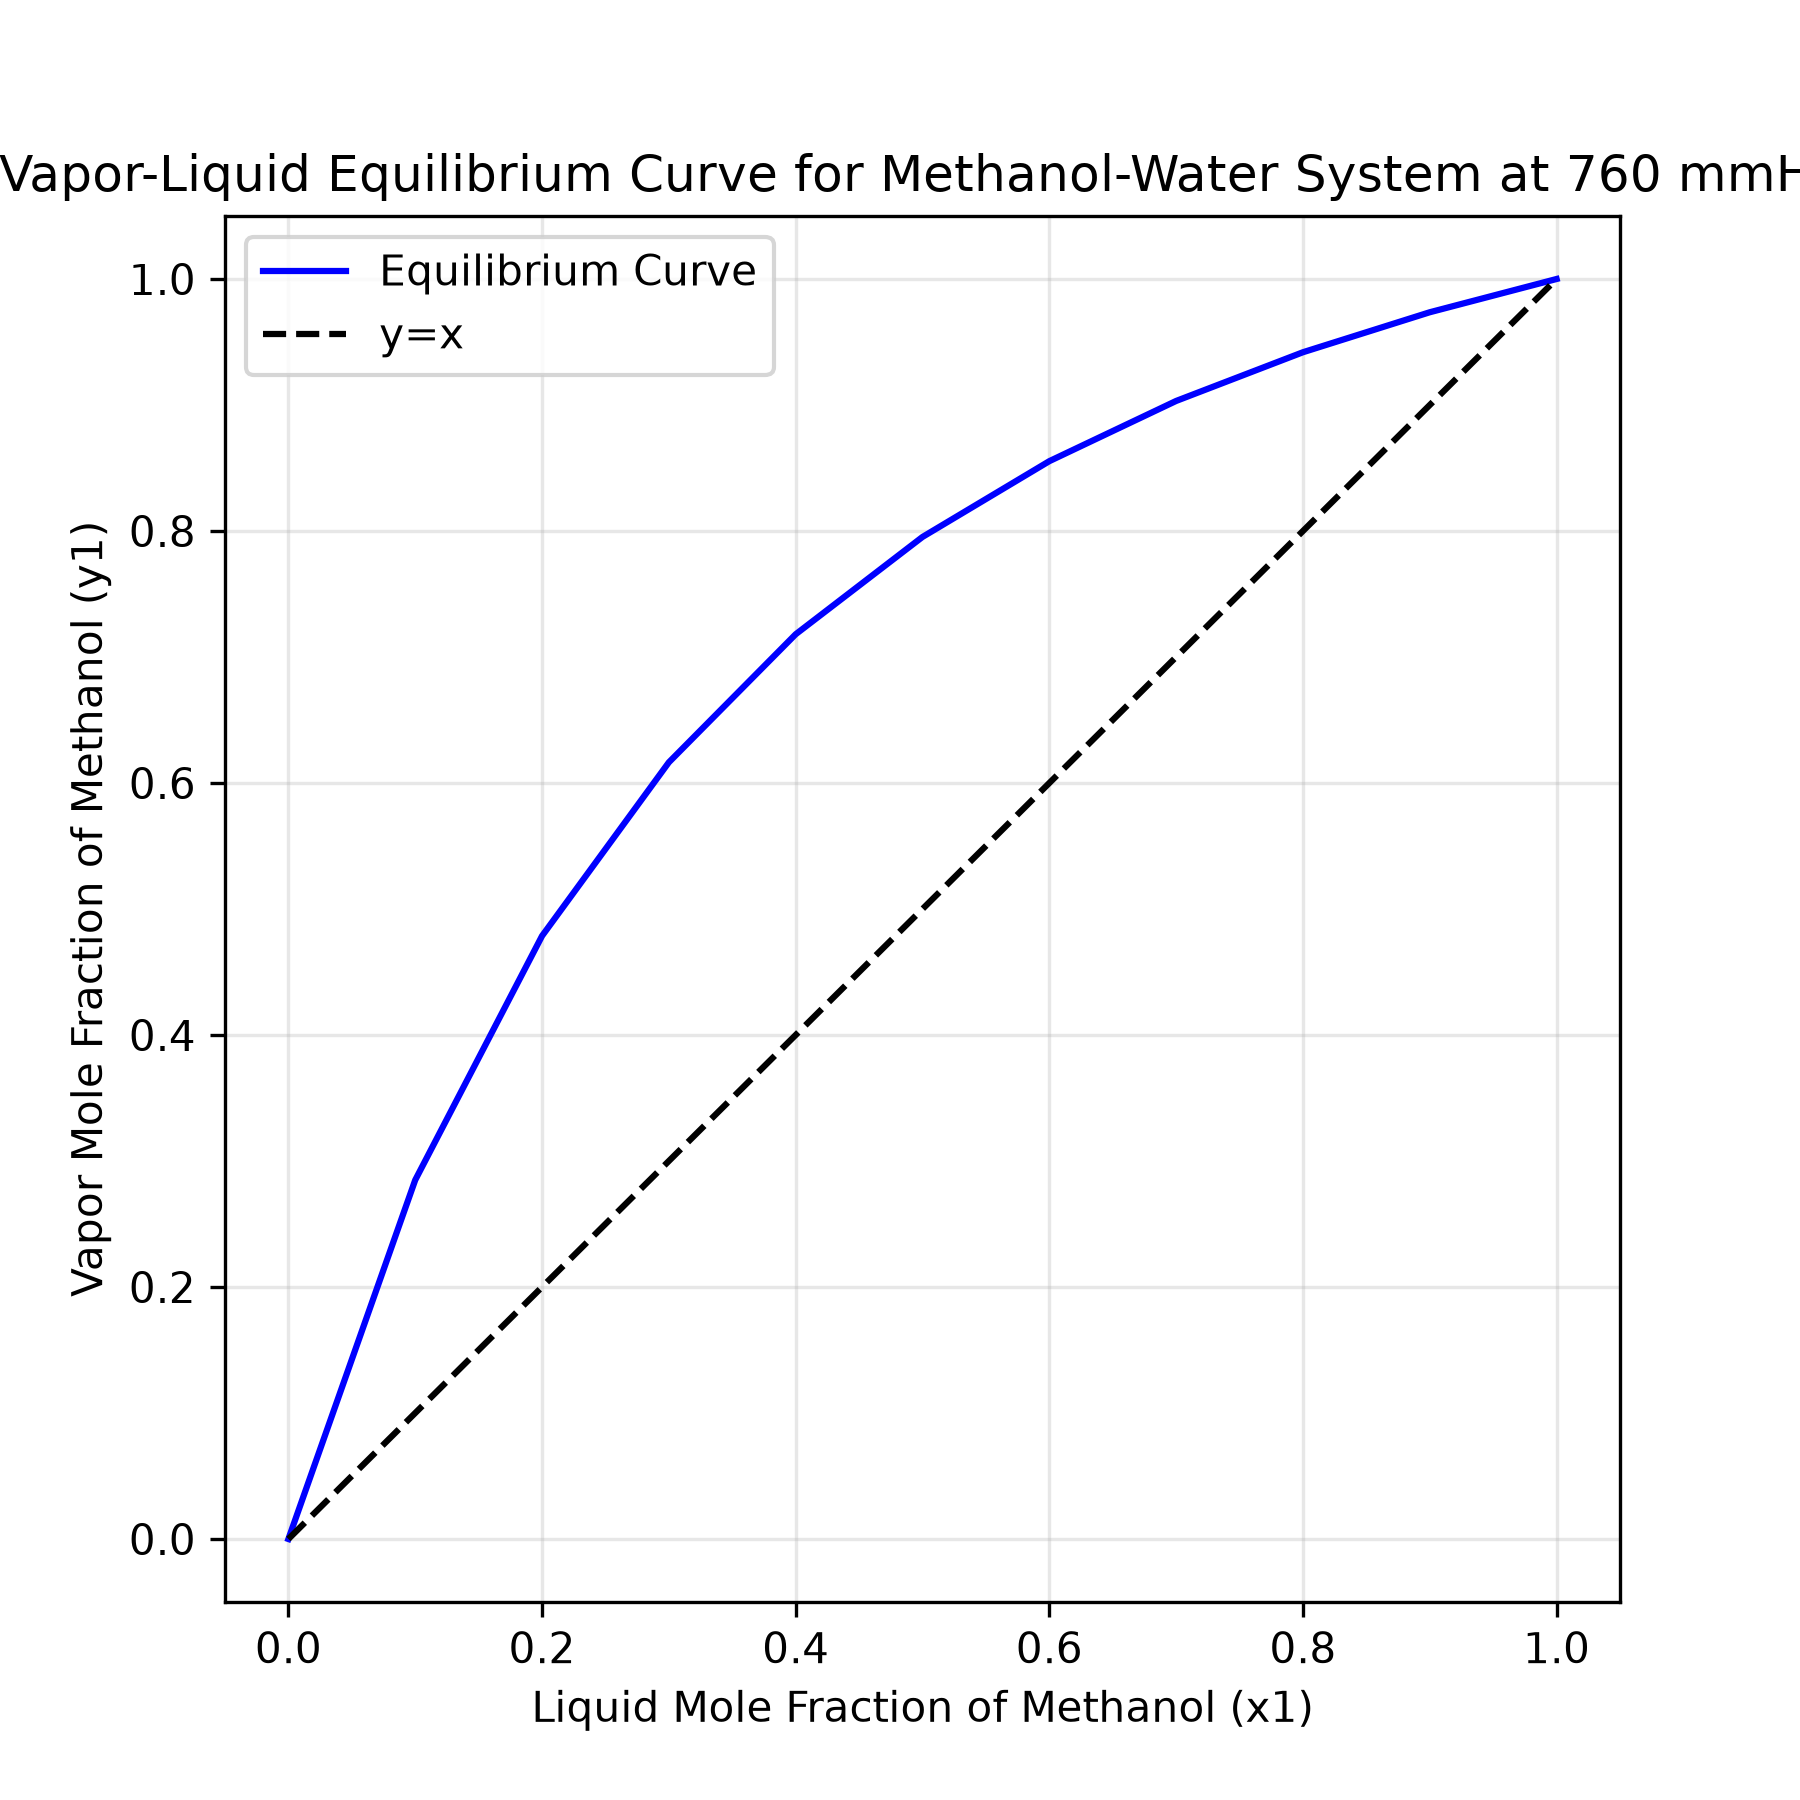
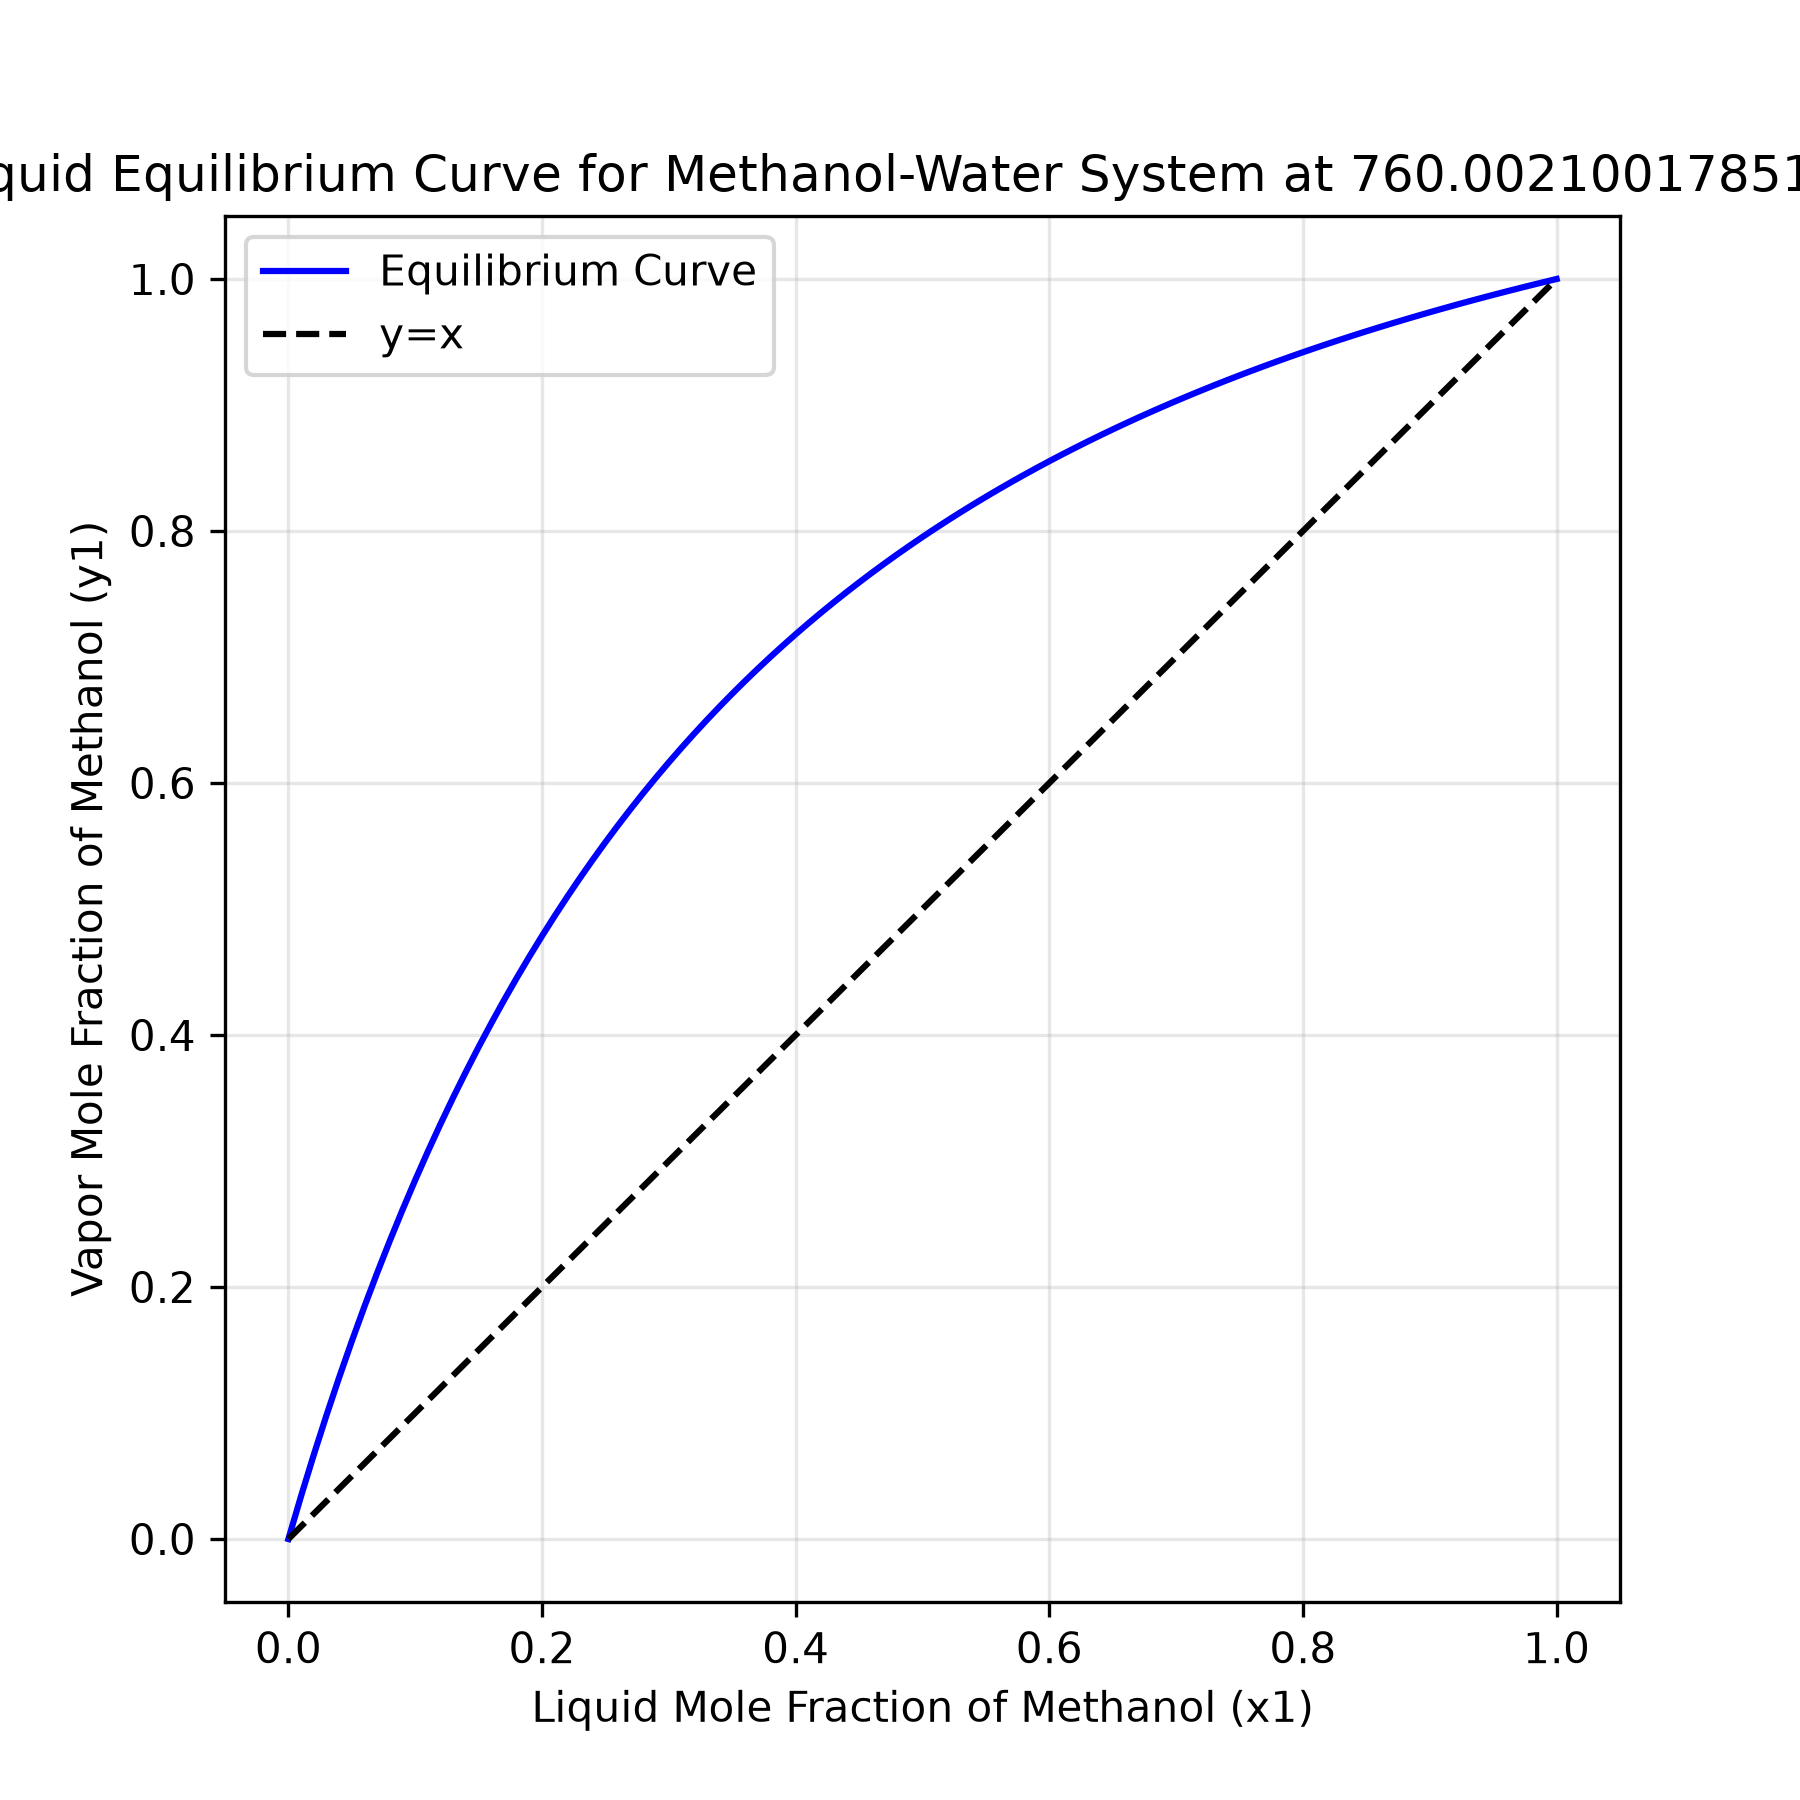
Updated plots, formatting, and now you will be asked the pressure and the fraction of methanol in the binary mixture

diff --git a/vle.py b/vle.py
@@ -46,25 +46,46 @@ def bubble_point(x1, P, comp1, comp2):
 def main():
    water = (8.07131, 1730.63, 233.426)
    methanol = (8.08097, 1582.271, 239.726)
-   print(bubble_point_temperature(0.5, 760, methanol, water))
-   T, y1 = bubble_point(0.5, 760, methanol, water)
-   print(f"Bubble point temperature: {T:.2f} °C, Vapor mole fraction of component 1: {y1:.4f}")
-   x_vals = np.linspace(0, 1, 11)
+
+   x1 = float(input("Please enter the fraction of methanol in the binary mixture: "))
+   P = float(input("Please enter the Pressure in Pa: "))
+   P = P/133.322
+
+   T, y1 = bubble_point(x1, P, methanol, water)
+   print(" ")
+   print(" ")
+   print(f"Bubble point temperature of the binary mixture at {P:.2f} mmHg and at x1 = {x1}: {T:.2f} °C")
+   print(" ")
+   print(f"Vapor mole fraction of component 1: {y1:.4f}")
+   x_vals = np.linspace(0, 1, 101)
    y_vals = []
    T_vals = []
+   
    for x1 in x_vals:
-      T, y1 = bubble_point(x1, 760, methanol, water)
+      T, y1 = bubble_point(x1, P, methanol, water)
       T_vals.append(T)
       y_vals.append(y1)
    plt.figure(figsize=(6, 6))
-   plt.plot(x_vals, y_vals, label='Bubble Point Temperature (°C)', color='blue')
+   plt.plot(x_vals, y_vals, label='Equilibrium Curve', color='blue')
    plt.plot([0, 1], [0, 1], "k--", label = "y=x")
    plt.xlabel('Liquid Mole Fraction of Methanol (x1)')
    plt.ylabel('Vapor Mole Fraction of Methanol (y1)')
-   plt.title('Vapor-Liquid Equilibrium Curve for Methanol-Water System at 760 mmHg')
-   plt.legend(["Equilibrium Curve", "y=x Line"])
+   plt.title(f'Vapor-Liquid Equilibrium Curve for Methanol-Water System at {P} mmHg')
+   plt.legend()
    plt.grid(alpha=0.3)
+   plt.savefig('Equilibrium_Curve.png', dpi=300)
    plt.show()
-    
 
-main()
+   plt.figure(figsize=(6, 6))
+   plt.plot(x_vals, T_vals, label='bubble point curve', color='blue')
+   plt.plot([0, 1], [0, 1], "k--", label = "y=x")
+   plt.xlabel('Liquid Mole Fraction of Methanol (x1)')
+   plt.ylabel('Bubble Point Temperature (°C)')
+   plt.title(f'Bubble Point Temperature for Methanol-Water System at {P} mmHg')
+   plt.legend()
+   plt.grid(alpha=0.3)
+   plt.savefig('Bubble_Point_Temperature.png', dpi=300)
+   plt.show()
+
+if __name__ == "__main__":
+    main()
